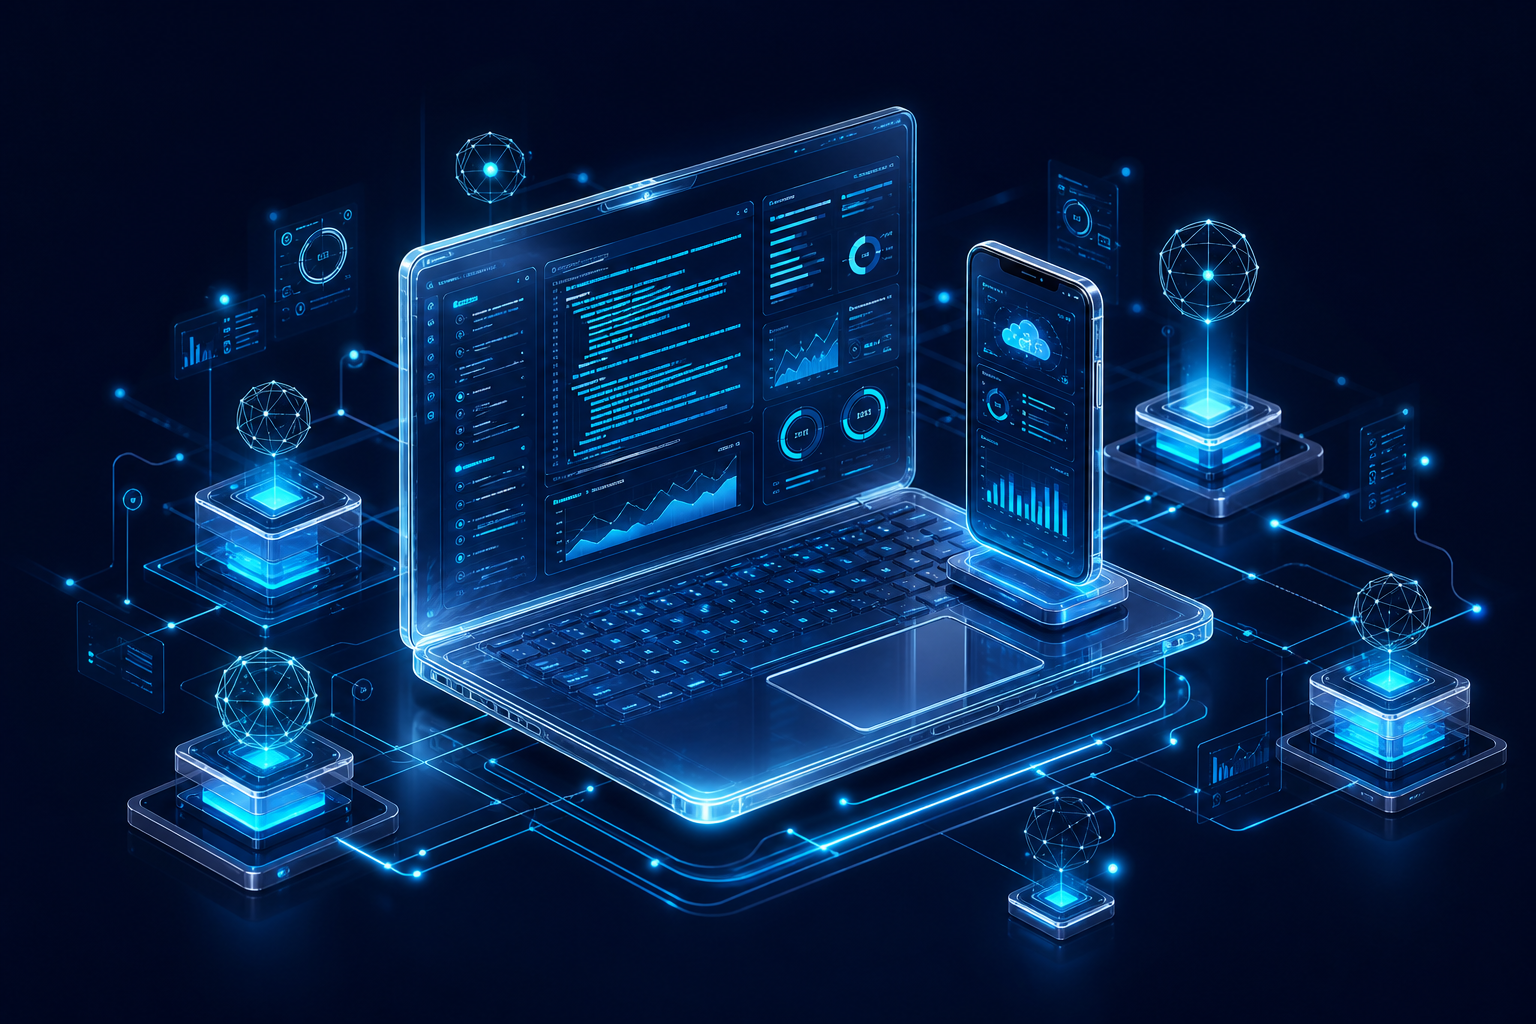
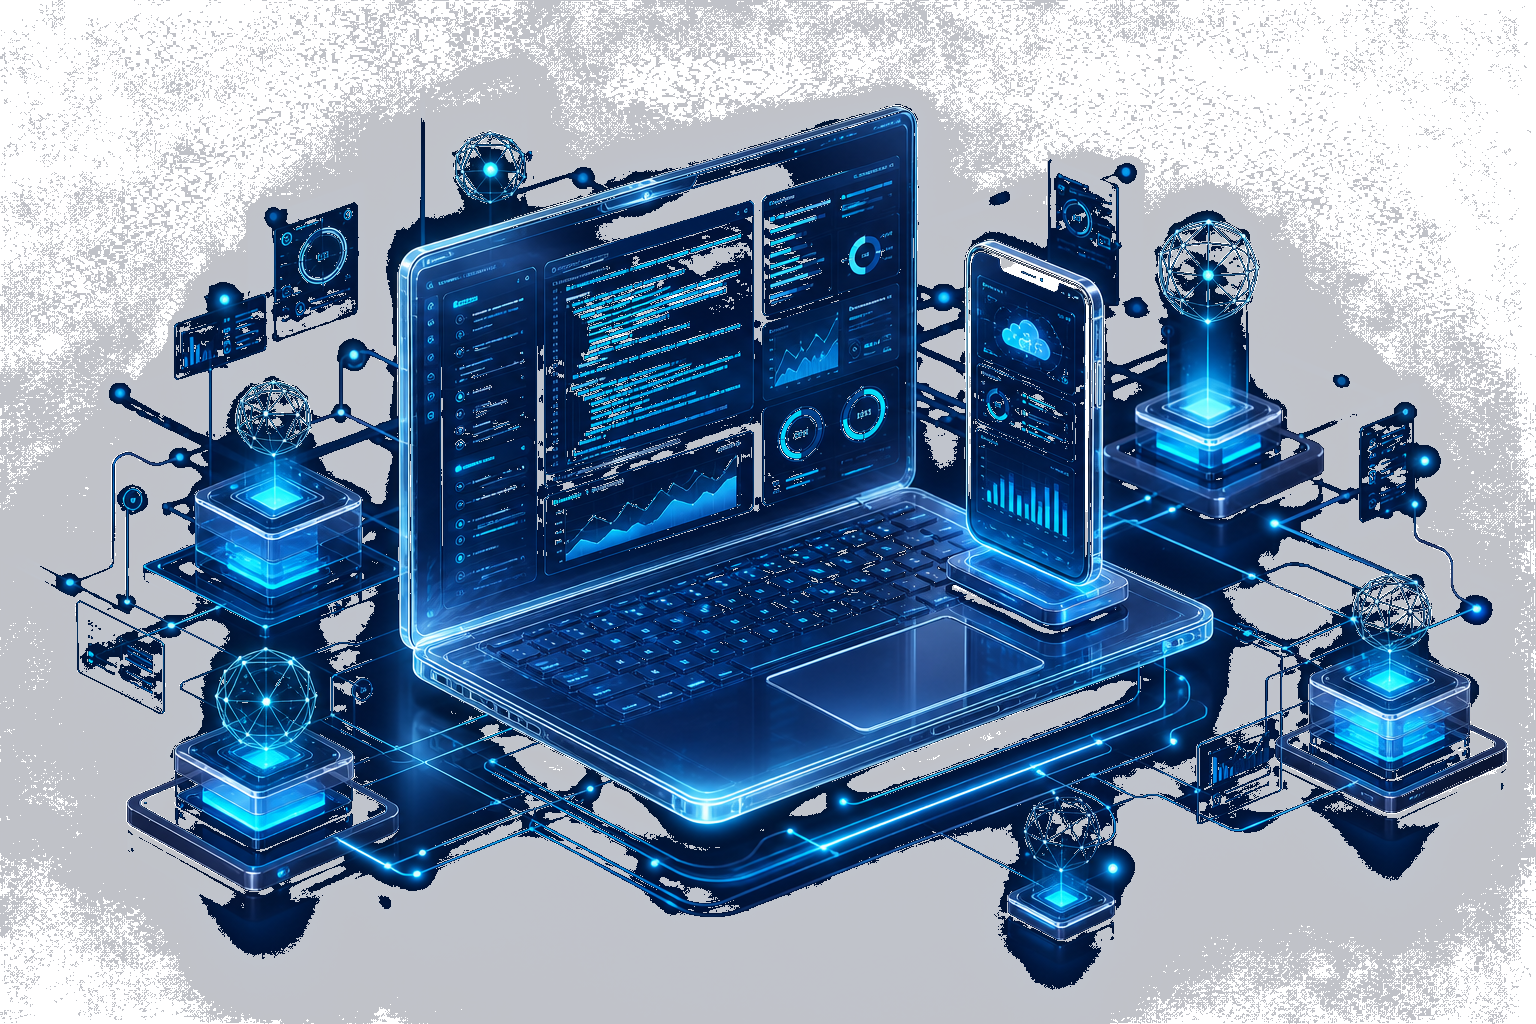
Blend the hero IT image into the wave background and improve mobile order.
Remove the boxed frame, punch out the navy plate from the hero art, and show brand text before the visual on small screens.

diff --git a/sisoft/public/css/site.css b/sisoft/public/css/site.css
@@ -89,11 +89,11 @@ textarea {
 
 .bg-waves {
   position: absolute;
-  right: -8%;
-  top: -5%;
-  width: min(78vw, 920px);
+  right: -12%;
+  top: -8%;
+  width: min(88vw, 1040px);
   height: auto;
-  opacity: 0.95;
+  opacity: 1;
   pointer-events: none;
   animation: wave-shift 12s ease-in-out infinite alternate;
 }
@@ -245,6 +245,7 @@ textarea {
 .btn-cyan:hover {
   background: linear-gradient(135deg, #9ae6ff, #5ad4ff);
   box-shadow: 0 0 32px rgba(62, 203, 255, 0.55), 0 14px 34px rgba(26, 159, 217, 0.4);
+  color: #04122f;
 }
 
 .btn-lg {
@@ -342,17 +343,18 @@ textarea {
 }
 
 .hero-feature h3 {
-  margin: 0 0 0.3rem;
+  margin: 0 0 0.35rem;
   font-family: var(--font-display);
-  font-size: 0.95rem;
+  font-size: 0.98rem;
   letter-spacing: -0.02em;
 }
 
 .hero-feature p {
   margin: 0;
   color: var(--muted);
-  font-size: 0.78rem;
-  line-height: 1.4;
+  font-size: 0.8rem;
+  line-height: 1.45;
+  max-width: 12rem;
 }
 
 .hero-cta {
@@ -364,31 +366,31 @@ textarea {
   z-index: 1;
   display: grid;
   place-items: center;
-  min-height: 520px;
+  min-height: 560px;
   animation: float-in 1.2s var(--ease) both;
 }
 
 .hero-glow {
   position: absolute;
-  width: 78%;
-  height: 62%;
+  width: 88%;
+  height: 72%;
   border-radius: 50%;
-  background: radial-gradient(circle, rgba(62, 203, 255, 0.42), transparent 70%);
-  filter: blur(10px);
+  background: radial-gradient(circle, rgba(62, 203, 255, 0.5), transparent 68%);
+  filter: blur(14px);
   animation: pulse-glow 5s ease-in-out infinite;
 }
 
 .hero-product {
   position: relative;
   z-index: 2;
-  width: min(100%, 560px);
-  border-radius: 1.75rem;
-  border: 1px solid rgba(62, 203, 255, 0.2);
-  background: rgba(5, 13, 42, 0.35);
-  box-shadow:
-    0 0 0 1px rgba(62, 203, 255, 0.08),
-    0 28px 70px rgba(4, 12, 40, 0.55),
-    0 0 40px rgba(62, 203, 255, 0.12);
+  width: min(108%, 620px);
+  max-width: none;
+  border: 0;
+  border-radius: 1.25rem;
+  background: transparent;
+  box-shadow: none;
+  filter: drop-shadow(0 30px 55px rgba(4, 12, 40, 0.65))
+    drop-shadow(0 0 28px rgba(62, 203, 255, 0.22));
   animation: float-product 6s ease-in-out infinite;
 }
 
@@ -981,15 +983,25 @@ tr:last-child td {
     grid-template-columns: 1fr 1fr;
   }
 
+  .hero {
+    padding-top: 6.5rem;
+  }
+
   .hero-visual {
-    order: -1;
-    min-height: 320px;
+    order: 0;
+    min-height: 280px;
+    margin-top: 0.5rem;
+  }
+
+  .hero-product {
+    width: min(100%, 420px);
   }
 
   .bg-waves {
-    opacity: 0.55;
-    width: 110%;
-    right: -20%;
+    opacity: 0.7;
+    width: 120%;
+    right: -28%;
+    top: 8%;
   }
 }
 
